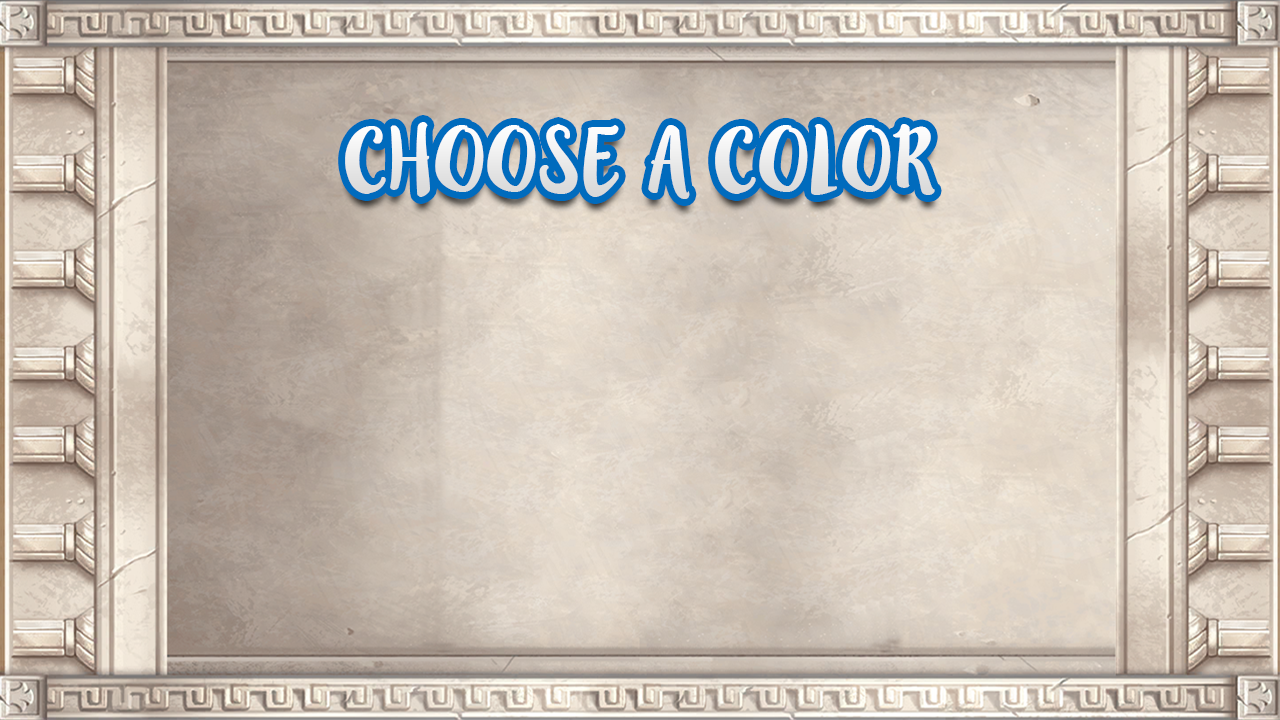
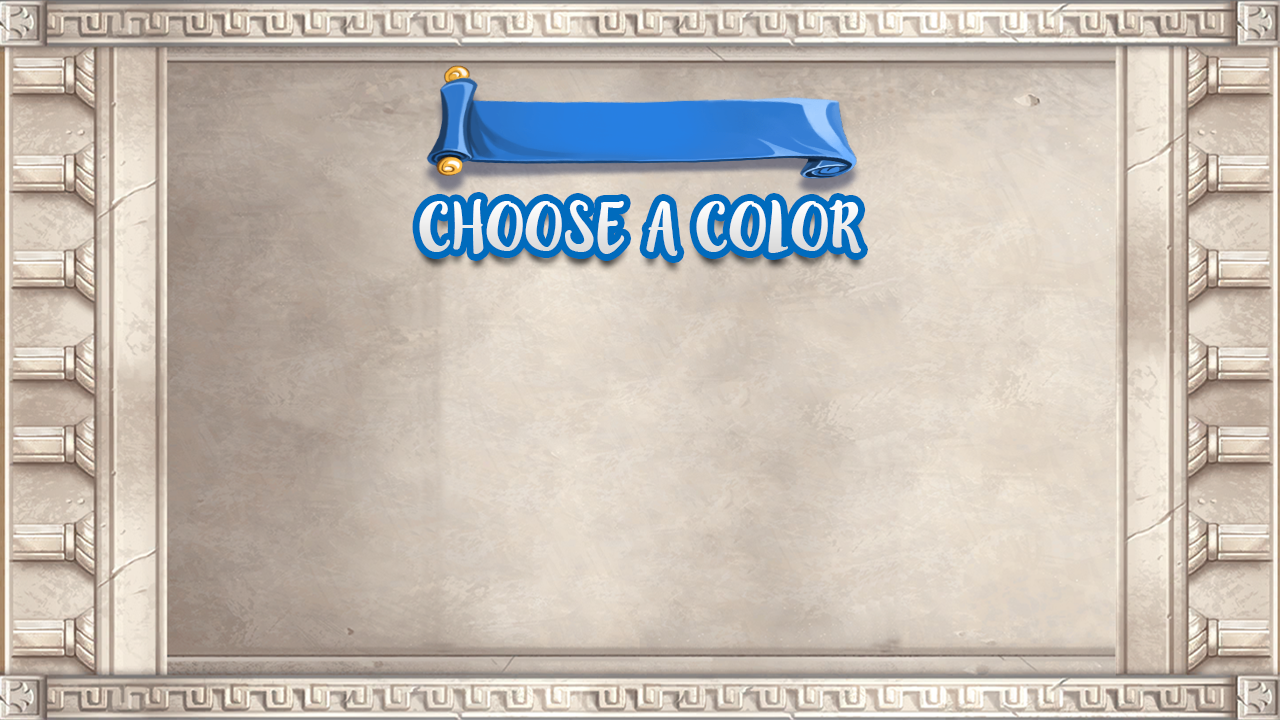
GUI: chooseColorScene v2

Changed region(s): [[0.25, 0.0917, 0.75, 0.3972]]

diff --git a/src/main/java/it/polimi/ingsw/ui/gui/controller/ChooseColorSceneController.java b/src/main/java/it/polimi/ingsw/ui/gui/controller/ChooseColorSceneController.java
@@ -4,6 +4,9 @@ import javafx.fxml.FXML;
 import javafx.scene.image.Image;
 import javafx.scene.image.ImageView;
 import javafx.scene.input.MouseEvent;
+import javafx.scene.text.Font;
+import javafx.scene.text.Text;
+
 
 public class ChooseColorSceneController {
 
@@ -22,6 +25,11 @@ public class ChooseColorSceneController {
 	@FXML
 	private ImageView button_exit;
 
+	@FXML
+	private Text text_player;
+
+	private String namePlayer = "Pippo"; //only as example.
+
 	Image buttonNextPressed = new Image("/img/home_next_btn_pressed.png");
 	Image buttonNext = new Image("/img/home_next_btn.png");
 	Image buttonExitPressed = new Image("/img/home_exit_btn_pressed.png");
@@ -32,6 +40,17 @@ public class ChooseColorSceneController {
 	Image buttonGreen = new Image("/img/color_green_btn.png");
 	Image buttonBluePressed = new Image("/img/color_btn_blue_pressed.png");
 	Image buttonBlue = new Image("/img/color_blue_btn.png");
+
+	public void initialize(){
+		text_player.setFont(Font.loadFont(getClass().getResourceAsStream("/fonts/LillyBelle.ttf"), 34));
+		text_player.setText(namePlayer);
+	}
+
+	private String setNamePlayer() {
+		//TODO:...
+		return namePlayer;
+	}
+
 
 	public void mousePressedRed(MouseEvent mouseEvent) {
 		button_red.setImage(buttonRedPressed);

diff --git a/src/main/java/it/polimi/ingsw/ClientGUIApp.java b/src/main/java/it/polimi/ingsw/ClientGUIApp.java
@@ -28,7 +28,7 @@ public class ClientGUIApp extends Application {
 
 	@Override
 	public void start(Stage stage) throws Exception {
-		Parent root = FXMLLoader.load(getClass().getResource("/fxml/choose_numPlayer.fxml")); //in this moment, I'm using this as a scene tester
+		Parent root = FXMLLoader.load(getClass().getResource("/fxml/choose_colorV2.fxml")); //in this moment, I'm using this as a scene tester
 		Scene menu = new Scene(root);
 		stage.setScene(menu);
 		stage.setTitle("Santorini");
